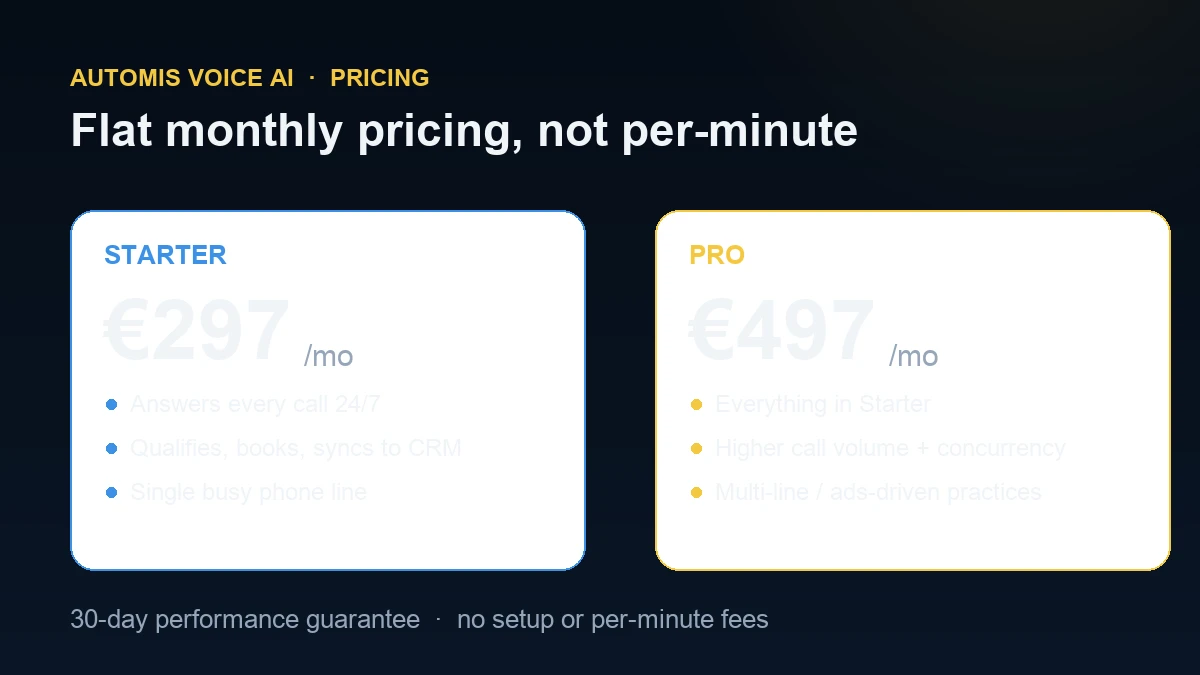
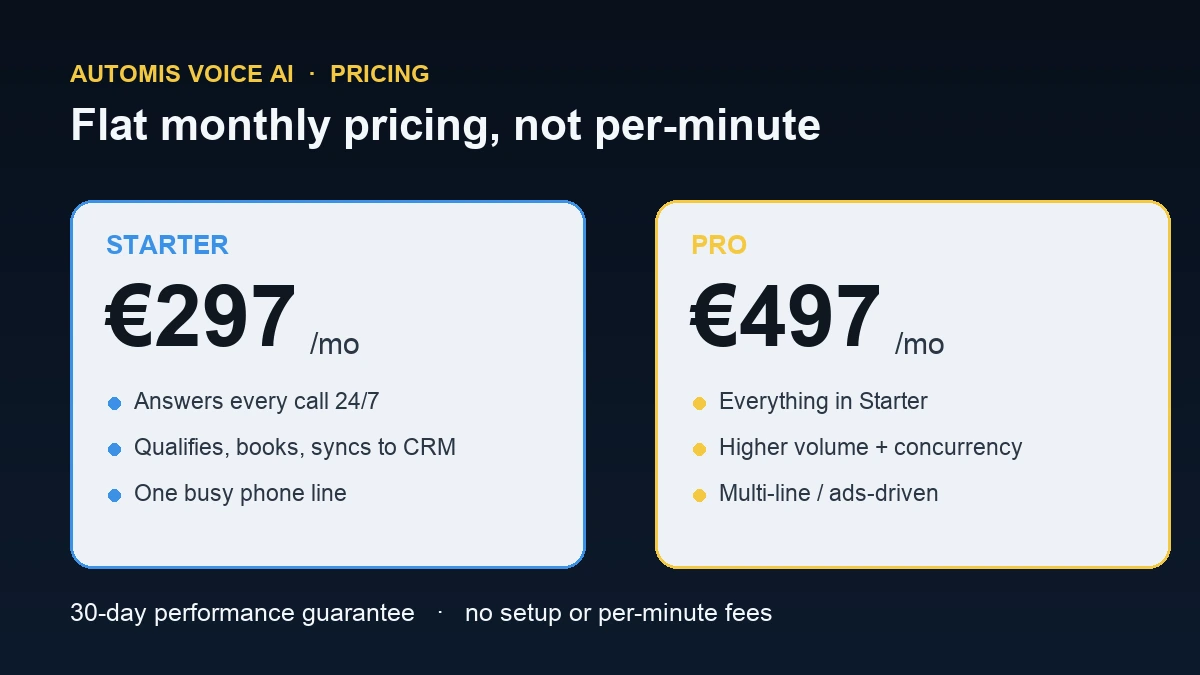
blog: fix article/index visual bugs (verified via screenshots)
- CRITICAL: body text was rendering white-on-white (global dark-site p{color}
  overrode the light column). Force explicit dark text on .blog-article p/li/
  blockquote/td.
- Hero image was a dark title-card duplicating the H1, muddily overlapping the
  dark band. Regenerated it as a cost-contrast visual (not the headline) and
  removed the negative-margin overlap so it sits cleanly in the light column.
- Infographics had a PIL RGBA->RGB flatten bug (translucent fills became solid
  white with invisible text). Regenerated in RGB with opaque, high-contrast fills.
- Index had a ~600px empty void between hero and cards. Tightened hero + index
  section padding.
Verified with headless-Chrome screenshots of index + article (desktop).

diff --git a/app/globals.css b/app/globals.css
@@ -660,7 +660,7 @@ html { scroll-behavior: smooth; }
 
 /* hero image at the top of the reading column */
 .blog-hero-figure {
-  margin: -5.5rem 0 2.25rem; /* pull up so it overlaps the dark hero band */
+  margin: 0 0 2.5rem; /* sits cleanly in the light column, below the dark hero band */
   border-radius: 16px;
   overflow: hidden;
   box-shadow: 0 20px 45px -20px rgba(0, 10, 20, 0.45);
@@ -743,6 +743,15 @@ html { scroll-behavior: smooth; }
 }
 .blog-article p {
   margin: 0 0 1.4rem;
+  color: #2b3644;
+}
+/* the dark site sets a global white text color; force dark on the light column */
+.blog-article,
+.blog-article li,
+.blog-article blockquote,
+.blog-article blockquote p,
+.blog-article td {
+  color: #2b3644;
 }
 .blog-article h2 {
   font-size: clamp(1.5rem, 2.4vw, 2rem);

diff --git a/app/blog/page.js b/app/blog/page.js
@@ -31,7 +31,7 @@ const BlogPage = async () => {
   return (
     <AutomisEnShell>
       {/* ── HERO ── */}
-      <section className="relative overflow-hidden bg-bg-primary hero-padding">
+      <section className="relative overflow-hidden bg-bg-primary pt-36 pb-10">
         {/* background blobs */}
         <div className="absolute top-0 left-0 w-full h-full pointer-events-none">
           <div className="absolute top-20 left-10 w-72 h-72 bg-blue-middle/5 rounded-full blur-3xl" />

diff --git a/app/it/blog/page.js b/app/it/blog/page.js
@@ -31,7 +31,7 @@ const BlogPage = async () => {
   return (
     <AutomisEnShell>
       {/* ── HERO ── */}
-      <section className="relative overflow-hidden bg-bg-primary hero-padding">
+      <section className="relative overflow-hidden bg-bg-primary pt-36 pb-10">
         {/* background blobs */}
         <div className="absolute top-0 left-0 w-full h-full pointer-events-none">
           <div className="absolute top-20 left-10 w-72 h-72 bg-blue-middle/5 rounded-full blur-3xl" />

diff --git a/components/blog/BlogIndex.js b/components/blog/BlogIndex.js
@@ -26,7 +26,7 @@ export default function BlogIndex({ posts, basePath = "/blog", labels }) {
     active === "All" ? posts : posts.filter((p) => p.category === active);
 
   return (
-    <section className="section-padding bg-bg-primary">
+    <section className="bg-bg-primary pt-2 pb-24">
       <div className="container mx-auto px-4">
         {/* category filter bar */}
         <div className="flex flex-wrap justify-center gap-2 mb-12">